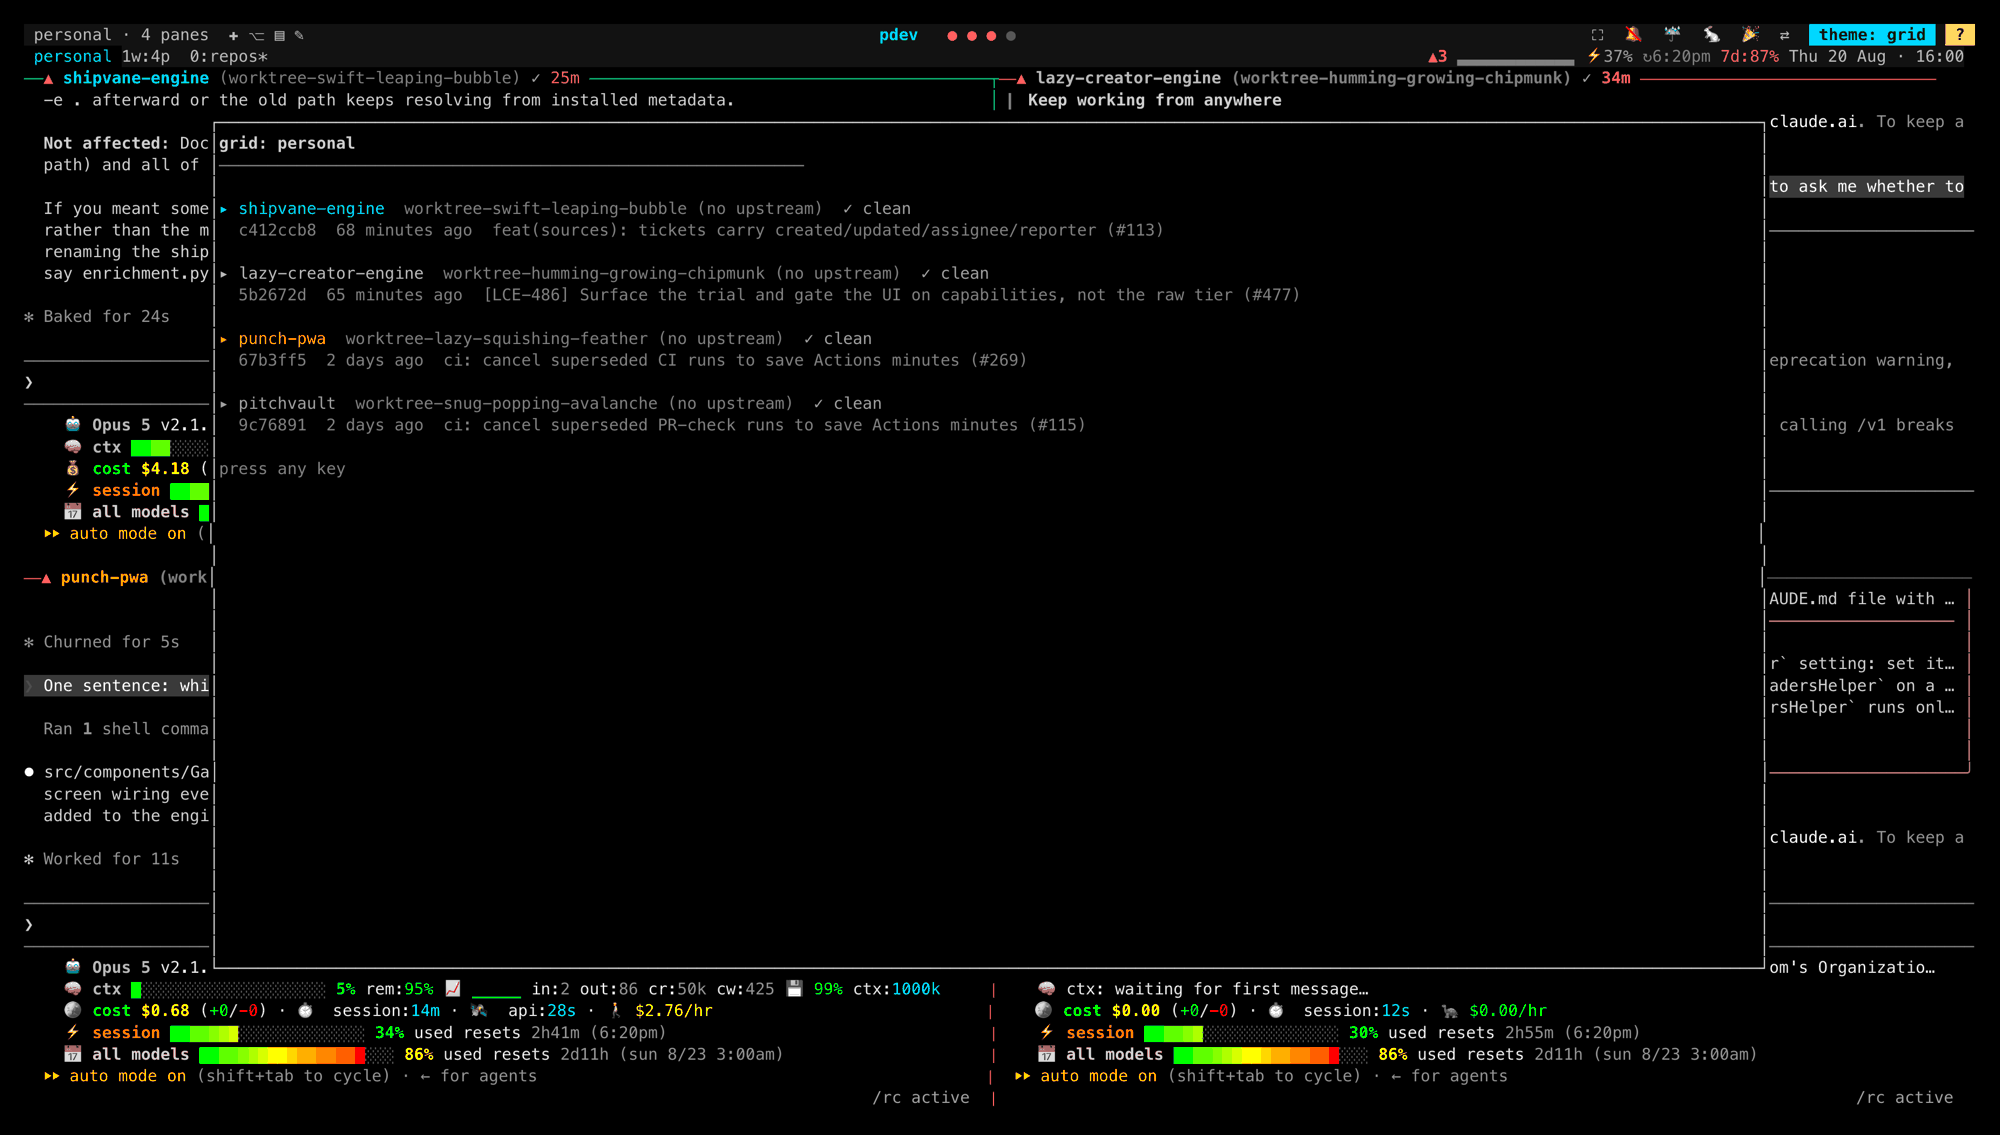
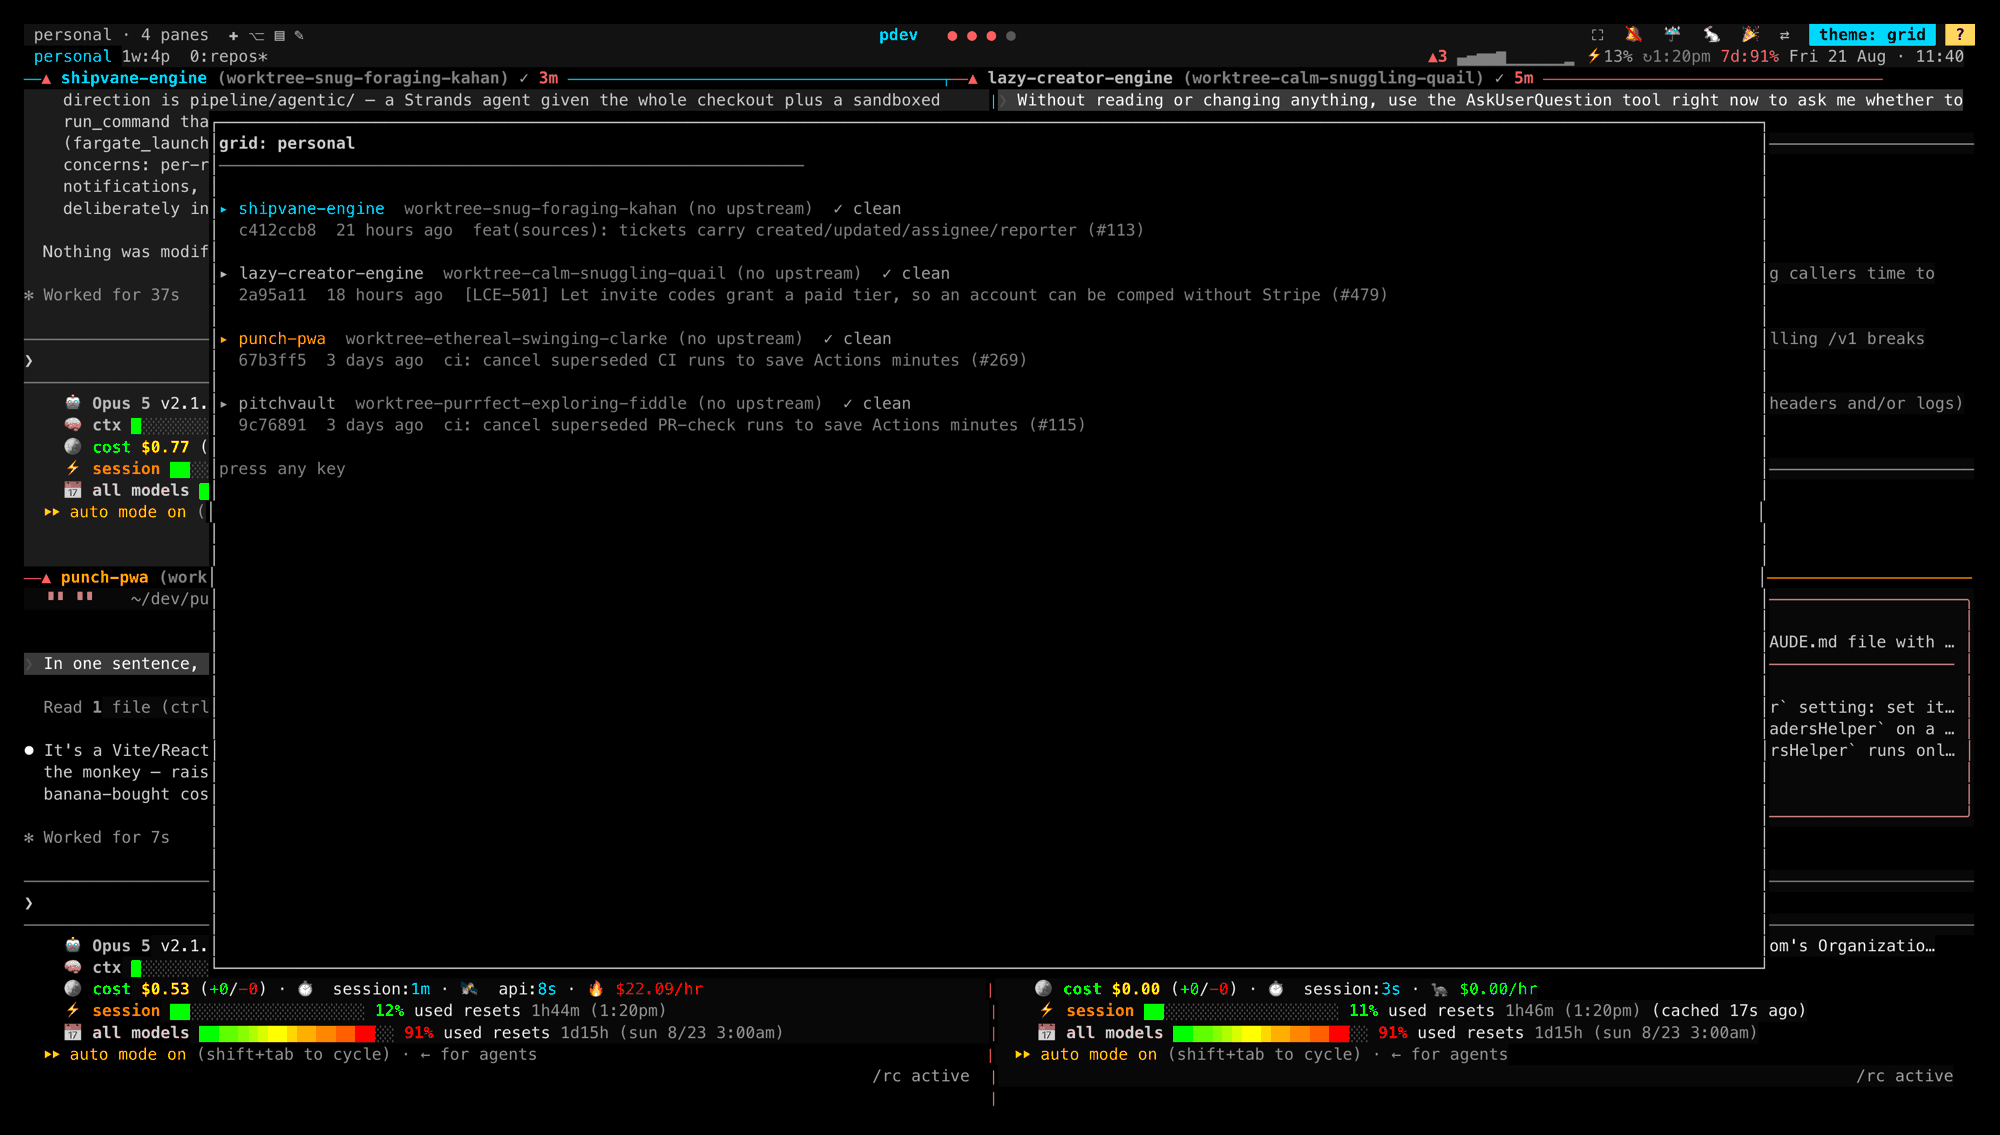
the pane you're in wore stock green whatever it was doing
pane-border-style is per-pane, so pane-state.sh could stamp each frame with
its own state — except the one that matters. tmux paints the active pane from
pane-active-border-style, a single window option nobody was setting, so it
stayed the default green: the exact colour this grid uses to mean "finished
its turn", worn by whichever pane you happened to be sitting in.

There is no per-pane version of that option, so it gets re-derived from the
active pane instead — on after-select-pane when focus moves, and on a state
change in the pane already focused. A focused pane in a neutral state takes
the theme accent rather than the frame tint: that border is also the "you are
here" marker and flattening it to the same grey as everything else loses
more than it fixes. waiting and done keep their semantic colours, which was
the whole complaint.

A theme swap re-derives it too, since the accent moves underneath it, and a
window whose active pane isn't a grid pane gets the option handed back rather
than left wearing a colour this script picked.

Re-shoots the screenshots that showed the old behaviour — the hero's focused
pane is mid-turn, and was framed in the "finished" colour.

Claude-Session: https://claude.ai/code/session_01PFDD1RYfeAAKR6PHRY1Eey

diff --git a/README.md b/README.md
@@ -169,10 +169,12 @@ source ~/dev/claude-code-grid/zsh/grid.zsh
 - **The grid is a dashboard.** Claude Code hooks report each session's state
   into tmux pane options (`scripts/pane-state.sh`), and the border renders it:
   glyph, elapsed time, and a frame that turns red the moment a pane blocks on
-  you. (The frame, not the glyph, is the part the focused pane doesn't get —
-  tmux paints the active pane's border from `pane-active-border-style`, so
-  the pane you're already looking at keeps its own colour.) The status bar
-  carries the rollup (`▲1 ✔1 ▶1`). With four sessions the
+  you — the focused pane included, which tmux makes awkward: that one border
+  comes from the window-scoped `pane-active-border-style`, so it gets
+  re-derived on every focus change and on any state change in the pane you're
+  in. A focused pane in a neutral state wears the theme's accent rather than
+  the frame tint, so "you are here" still reads at a glance.
+  The status bar carries the rollup (`▲1 ✔1 ▶1`). With four sessions the
   scarce resource is your attention, not screen space — `prefix+n` (and the
   `🐇` chip) turns that into a work queue.
 - **Pane borders that stay put** — repo name (per-repo color), current branch,
@@ -295,6 +297,13 @@ board), `<session>.log` (prune decisions), `prompts/` (prompt library),
   from the command line.)
 - `tmux set-option -p` without `-t` targets the window's _active_ pane, not
   the pane running the command — always pass `-t "$TMUX_PANE"`.
+- **`pane-border-style` is per-pane but `pane-active-border-style` is
+  per-window**, so the pane you are focused on does not wear the style its
+  own state set — it wears one option shared by the whole window, which
+  defaults to green and therefore said "finished its turn" about whatever
+  pane you happened to be in. There is no per-pane version of it: it has to
+  be re-derived from the active pane, both when focus moves
+  (`after-select-pane`) and when that pane changes state.
 - **`#()` in a format is cached** and only re-runs on `status-interval`, so a
   state glyph rendered by a shell script lags the actual transition by up to
   15s. The glyph is drawn with native `#{?...}` conditionals on `@state`
